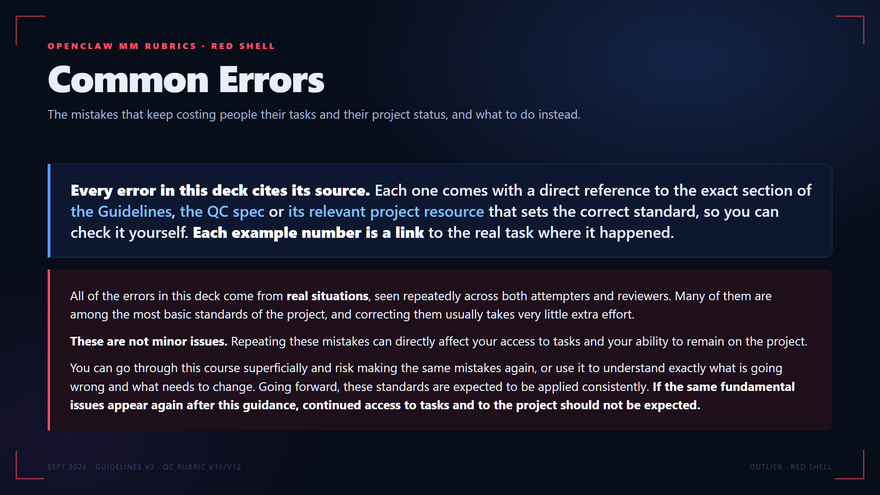
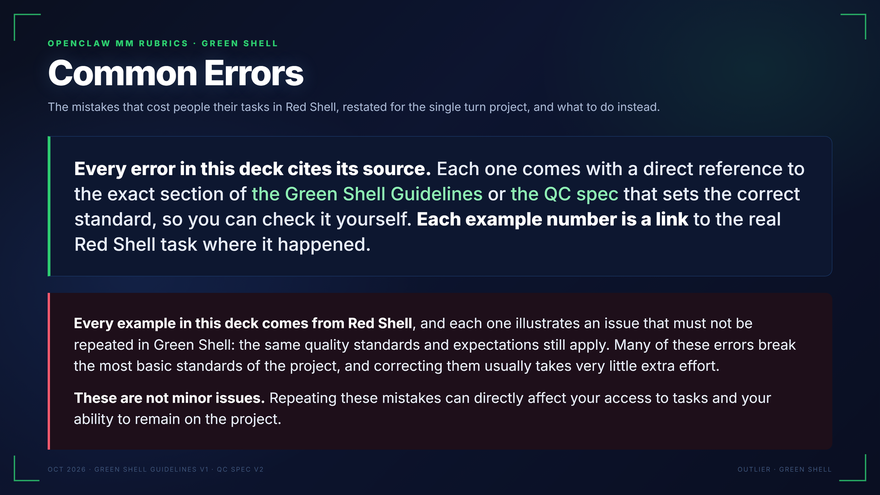
Replace both onboardings with the Green Shell versions
The intro card now opens the single turn deck (15 slides, 7 sections) and
Common Errors opens the Green Shell course (17 errors, 26 Red Shell
examples). Both covers are recut from the live decks, the counts and the
"what is inside" lines describe what is actually there, and the note under
the cards no longer says they teach the multi-turn project. The landing
bar gets an onboarding entry so contributors know to rerun them.

diff --git a/Green Shell/src/data/onboarding.ts b/Green Shell/src/data/onboarding.ts
@@ -29,18 +29,18 @@ export const onboardingItems: OnboardingItem[] = [
     title: "Intro Onboarding",
     tagline: "Start here on your first day.",
     blurb:
-      "The whole project in one pass: what you produce, the vocabulary everything else assumes, the workflow end to end, and the standard each deliverable is held to. Reference material, no quizzes.",
+      "The single turn project in one pass: what changed from Red Shell, how a task works, and every step from your task parameters to the subjective block. Each slide names the guidelines sections it comes from.",
     cover: "onboarding/intro-cover.png",
-    url: "https://pablitofott14.github.io/MM-Rurics-Multimodal-Slides/",
+    url: "https://pablitofott14.github.io/MM-Rubrics-Multimodal-Slides-Green-Shell/",
     stats: [
-      { k: "33", v: "slides" },
-      { k: "14", v: "sections" },
+      { k: "15", v: "slides" },
+      { k: "7", v: "sections" },
     ],
     covers: [
-      "Your role, and the terms the rest of the project assumes",
-      "The workflow, the hard rules and the task package",
-      "Building the idea: universe first, then the scenario",
-      "The prompt, the two legs and the 50% failure gate",
+      "What changed from Red Shell, row by row",
+      "One prompt, two legs and the three things you hand in",
+      "Planning: task parameters, the universe, multimodal inputs, the GTFA and the prompt",
+      "Leg A and the 30% failure bar",
       "Objective rubrics, the golden solution and the subjective block",
     ],
     cta: "Open the onboarding",
@@ -52,17 +52,17 @@ export const onboardingItems: OnboardingItem[] = [
     title: "Common Errors",
     tagline: "The mistakes that are costing people their tasks.",
     blurb:
-      "Twenty three errors taken from the audit record, each with the rule it breaks and a real task showing it happen. Every section carries its own slides and the guidance that would have caught it.",
+      "Seventeen errors from the Red Shell audit record that are still errors under Green Shell, each restated against the Green Shell rules. Every example number opens the real Red Shell task on the exact spot.",
     cover: "onboarding/errors-cover.png",
-    url: "https://pablitofott14.github.io/red-shell-common-errors/",
+    url: "https://pablitofott14.github.io/green-shell-common-errors/",
     stats: [
-      { k: "23", v: "errors" },
-      { k: "7", v: "sections" },
+      { k: "17", v: "errors" },
+      { k: "26", v: "examples" },
     ],
     covers: [
-      "What each error costs: the task, a client standard, or points",
-      "The sections of the guidelines that already answer it",
-      "Real examples pulled apart, with the task they came from",
+      "The rule each error breaks, quoted from the Green Shell guidelines and spec",
+      "The 30% failure floor, taught as a rule",
+      "Real Red Shell examples, with the mistake marked and the fix under it",
       "How to catch the same thing in your own task",
     ],
     cta: "Open the onboarding",

diff --git a/Green Shell/src/pages/Onboarding.tsx b/Green Shell/src/pages/Onboarding.tsx
@@ -148,8 +148,8 @@ export default function Onboarding({ embedded = false }: { embedded?: boolean })
         <p className="mt-8 flex items-start gap-2.5 rounded-2xl border border-ink-200/70 bg-raised p-4 text-[13px] leading-relaxed text-ink-500">
           <Sparkles size={14} className="mt-0.5 shrink-0 text-gold-600 dark:text-gold-400" />
           <span>
-            Both were written for the multi-turn project and still teach it. The rules that
-            moved under Green Shell are in Must Read: Project Updates, and that is the one to read second.
+            Both teach Green Shell. Common Errors keeps its real Red Shell examples, because the same
+            standards still apply. The full list of rules that changed is in Must Read: Project Updates.
           </span>
         </p>
       </Reveal>

diff --git a/Green Shell/src/data/hubLog.ts b/Green Shell/src/data/hubLog.ts
@@ -55,6 +55,15 @@ const hardRules = guidelinesOnlyChanges.filter((c) => c.impact === "hard").lengt
 
 export const hubUpdates: HubUpdate[] = [
   {
+    id: "green-shell-onboardings",
+    date: "Oct 9, 2026",
+    kind: "onboarding",
+    what: "Both onboardings are now the Green Shell versions",
+    where: "Reference → Onboarding",
+    why: "The intro teaches the single turn task end to end, and Common Errors keeps the Red Shell mistakes that still apply, restated against the Green Shell rules. Rerun both if you went through the multi-turn versions.",
+    to: "/reference#onboarding",
+  },
+  {
     id: "input-diversity",
     date: "Oct 8, 2026",
     kind: "guidelines",
